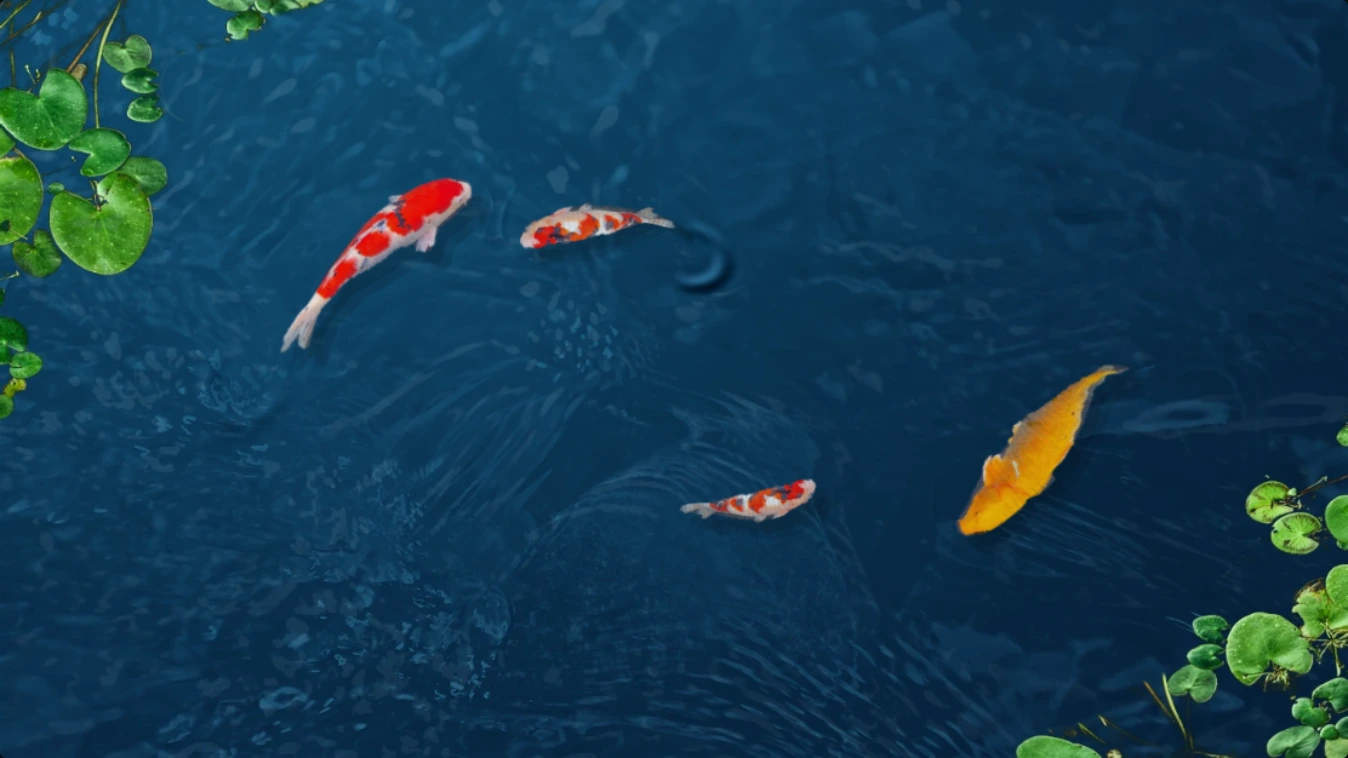
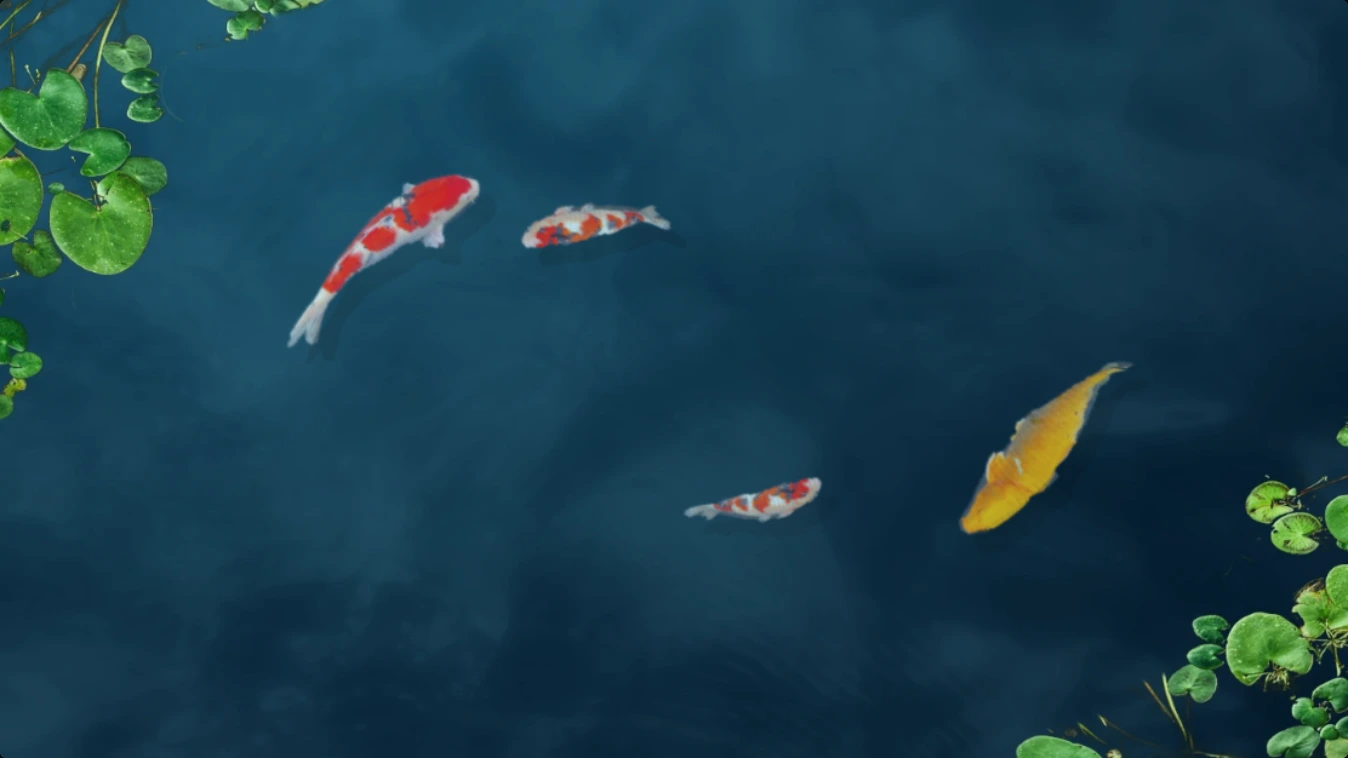
Displace a shared pond surface with each swimming koi

diff --git a/src/components/professional/artwork-water.ts b/src/components/professional/artwork-water.ts
@@ -20,82 +20,32 @@ varying vec2 uv;
 uniform sampler2D floorPhoto;
 uniform sampler2D koiLayer;
 uniform sampler2D surfacePhoto;
-uniform vec4 noses[4];
-uniform vec4 wakes[8];
-uniform float wakeAges[8];
+uniform sampler2D normals;
 
 void main() {
-  // Zero displacement is the resting surface. Only the koi contribute flow.
-  vec2 p = uv * vec2(1.77778, 1.);
-  vec2 displacement = vec2(0.);
-  float light = 0.;
-  for (int i = 0; i < 4; ++i) {
-    vec4 nose = noses[i];
-    vec2 offset = p - nose.xy;
-    float extent = length(offset);
-    if (extent > .116) continue;
-    vec2 along = vec2(cos(nose.z), sin(nose.z));
-    float ahead = dot(offset, along);
-    float side = dot(offset, vec2(-along.y, along.x));
-    // A short bow wave falls away on either side as the fish displaces water.
-    float front = ahead - .020 + side * side * 9.;
-    float arc = exp(-abs(front) * 204. - (side * side) * 450.);
-    float sway = arc * nose.w * smoothstep(-.047, -.012, ahead)
-      * (1. - smoothstep(.073, .116, extent));
-    vec2 normal = normalize(along + vec2(-along.y, along.x) * (18. * side));
-    float slope = sway * sin(front * 295.);
-    displacement += normal * slope * vec2(.006, .011);
-    light += slope * dot(normal, vec2(-.56, -.83)) * .26;
-  }
-  for (int i = 0; i < 8; ++i) {
-    vec4 wake = wakes[i];
-    float age = wakeAges[i];
-    if (age > 1.28 || abs(wake.w) < .025) continue;
-    vec2 along = vec2(cos(wake.z), sin(wake.z));
-    vec2 across = vec2(-along.y, along.x);
-    vec2 center = wake.xy - along * age * .027
-      + across * sign(wake.w) * (.011 + age * .025);
-    vec2 offset = p - center;
-    float spread = .024 + age * .043;
-    if (max(abs(offset.x), abs(offset.y)) > spread * 2.2) continue;
-    vec2 field = vec2(dot(offset, along) * .76, dot(offset, across));
-    float radius = length(field) / spread;
-    float fade = smoothstep(0., .11, age) * (1. - smoothstep(.26, 1.28, age))
-      * (1. - smoothstep(1.38, 1.66, radius));
-    float curl = fade * wake.w * exp(-radius * radius * 1.25);
-    displacement += vec2(-offset.y, offset.x) / spread * curl * vec2(.020, .028);
-    // A spreading crest tips the local surface toward the sky on one flank
-    // and away on the other. Both refraction and glints use that same slope.
-    vec2 normal = (.76 * field.x * along + field.y * across) / max(length(field), .0001);
-    float front = radius - .94;
-    float lee = smoothstep(-.65, .62, dot(offset, -along) / spread);
-    float slope = sin(front * 8.) * exp(-front * front * 8.)
-      * fade * abs(wake.w) * lee;
-    displacement += normal * slope * vec2(.006, .011);
-    light += slope * dot(normal, vec2(-.56, -.83)) * .32;
-  }
-  // Light bends farther on its way to the stone bed than to the shallower koi.
-  vec2 floorUV = clamp(uv + displacement * 1.68, .001, .999);
-  vec2 fishUV = clamp(uv + displacement * .80, .001, .999);
-  vec3 bed = texture2D(floorPhoto, floorUV).rgb;
-  vec4 fish = texture2D(koiLayer, fishUV);
-  float shadow = texture2D(koiLayer, floorUV - vec2(.007, .015)).a
-    + texture2D(koiLayer, floorUV - vec2(.013, .023)).a;
-  bed *= 1. - .12 * shadow;
-  // This premultiplied layer has its own transmission and water tint.
-  vec3 color = bed * (1. - fish.a) + fish.rgb * vec3(.94, .95, .96);
-  float daylight = exp(-dot((uv - vec2(.20, -.09)) / vec2(.61, .89),
-    (uv - vec2(.20, -.09)) / vec2(.61, .89)));
-  color *= 1. + light * 1.18;
-  color += mix(vec3(.18, .32, .43), vec3(.44, .63, .74), daylight) * light;
+  vec2 slope = (texture2D(normals, uv).rg * 255. - 128.) / 128.;
+  vec2 bend = slope * vec2(.019, .034);
+  vec3 bed = texture2D(floorPhoto, uv + bend * 1.45).rgb;
+  // Low-frequency surface relief also refracts a fish as it crosses still water.
+  float relief = texture2D(surfacePhoto, uv).r - .5;
+  vec2 throughWater = uv + bend + relief * vec2(.0022, -.0034);
+  vec2 blur = vec2(.00085, .0015);
+  vec4 fish = .52 * texture2D(koiLayer, throughWater)
+    + .16 * texture2D(koiLayer, throughWater + blur)
+    + .16 * texture2D(koiLayer, throughWater - vec2(blur.x, 0.))
+    + .16 * texture2D(koiLayer, throughWater - vec2(0., blur.y));
+  float shadow = texture2D(koiLayer, uv - vec2(.012,.024)).a;
+  bed *= 1. - .14 * shadow;
 
-  // The photographed reflection stays in place in calm water. The same wake
-  // that distorts the pond bed also bends this reflection over the koi.
-  vec2 reflected = clamp(uv * .82 + .09 + displacement * 3.8, .001, .999);
-  float flecks = texture2D(surfacePhoto, reflected).r;
-  float reflection = smoothstep(.025, .45, flecks);
-  float silver = reflection * (.044 + .095 * daylight + light * 1.8) + max(light, 0.) * .52;
-  color = mix(color, vec3(.71, .86, .94), clamp(silver, 0., .48));
+  // Blue-green scattered light softens the submerged outlines. Surface
+  // reflections cross the markings, with highlights tilted by the local wake.
+  vec3 submerged = fish.rgb * vec3(.82, .88, .88) + vec3(.021, .067, .088) * fish.a;
+  vec3 color = bed * (1. - fish.a) + submerged;
+  float sky = texture2D(surfacePhoto, uv + bend * 3.8).r;
+  float facing = dot(slope, vec2(-.54, -.84));
+  float reflection = clamp(.024 + .115 * sky + facing * .20, .008, .29);
+  color *= 1. + .13 * facing + (sky - .5) * .055;
+  color = mix(color, vec3(.57, .73, .80), reflection);
   gl_FragColor = vec4(color, 1.);
 }
 `;
@@ -115,6 +65,7 @@ export function createArtworkSurface(
   const fishTexture = gl.createTexture();
   const bedTexture = gl.createTexture();
   const surfaceTexture = gl.createTexture();
+  const normalTexture = gl.createTexture();
 
   function dispose() {
     for (const shader of shaders) gl.deleteShader(shader);
@@ -123,6 +74,7 @@ export function createArtworkSurface(
     gl.deleteTexture(fishTexture);
     gl.deleteTexture(bedTexture);
     gl.deleteTexture(surfaceTexture);
+    gl.deleteTexture(normalTexture);
   }
 
   function attach(type: number, source: string) {
@@ -136,7 +88,7 @@ export function createArtworkSurface(
     return true;
   }
 
-  if (!program || !buffer || !fishTexture || !bedTexture || !surfaceTexture || !attach(gl.VERTEX_SHADER, vertex) || !attach(gl.FRAGMENT_SHADER, fragment)) {
+  if (!program || !buffer || !fishTexture || !bedTexture || !surfaceTexture || !normalTexture || !attach(gl.VERTEX_SHADER, vertex) || !attach(gl.FRAGMENT_SHADER, fragment)) {
     dispose();
     return null;
   }
@@ -163,6 +115,7 @@ export function createArtworkSurface(
     gl.texImage2D(gl.TEXTURE_2D, 0, gl.RGBA, gl.RGBA, gl.UNSIGNED_BYTE, image);
   }
 
+  bindImage(gl.TEXTURE3, normalTexture, new ImageData(1, 1));
   bindImage(gl.TEXTURE1, bedTexture, bedImage);
   bindImage(gl.TEXTURE2, surfaceTexture, surfaceImage);
   gl.pixelStorei(gl.UNPACK_PREMULTIPLY_ALPHA_WEBGL, true);
@@ -170,17 +123,21 @@ export function createArtworkSurface(
   gl.uniform1i(gl.getUniformLocation(program, "koiLayer"), 0);
   gl.uniform1i(gl.getUniformLocation(program, "floorPhoto"), 1);
   gl.uniform1i(gl.getUniformLocation(program, "surfacePhoto"), 2);
-  const bowPoints = gl.getUniformLocation(program, "noses[0]");
-  const wakePoints = gl.getUniformLocation(program, "wakes[0]");
-  const ages = gl.getUniformLocation(program, "wakeAges[0]");
+  gl.uniform1i(gl.getUniformLocation(program, "normals"), 3);
+  let allocated = false;
 
   return {
     draw(flow: ReturnType<typeof createPondSwim>) {
       gl.viewport(0, 0, canvas.width, canvas.height);
       gl.texSubImage2D(gl.TEXTURE_2D, 0, 0, 0, gl.RGBA, gl.UNSIGNED_BYTE, fish);
-      gl.uniform4fv(bowPoints, flow.noses);
-      gl.uniform4fv(wakePoints, flow.wakes);
-      gl.uniform1fv(ages, flow.wakeAges);
+      gl.activeTexture(gl.TEXTURE3);
+      if (allocated) {
+        gl.texSubImage2D(gl.TEXTURE_2D, 0, 0, 0, gl.RGBA, gl.UNSIGNED_BYTE, flow.normals);
+      } else {
+        gl.texImage2D(gl.TEXTURE_2D, 0, gl.RGBA, gl.RGBA, gl.UNSIGNED_BYTE, flow.normals);
+        allocated = true;
+      }
+      gl.activeTexture(gl.TEXTURE0);
       gl.drawArrays(gl.TRIANGLE_STRIP, 0, 4);
     },
     dispose,

diff --git a/src/components/professional/artwork-pond.ts b/src/components/professional/artwork-pond.ts
@@ -1,4 +1,5 @@
-const height = 562.5;
+import { createPondRipples } from "./artwork-ripples";
+
 const tau = Math.PI * 2;
 type Point = readonly [number, number];
 
@@ -67,10 +68,13 @@ type Koi = (typeof koi)[number];
 
 function poseAt(fish: Koi, time: number) {
   const cadence = time / fish.cycle * tau + fish.phase * tau;
-  const surge = Math.sin(cadence) * fish.cycle / tau * .24;
+  const phase = (time * fish.frequency + fish.phase) * tau;
+  // Each half stroke adds a short surge within the longer burst-and-coast cycle.
+  const surge = Math.sin(cadence - .45) * fish.cycle / tau * .40
+    + .14 * Math.sin(2 * phase - 1.1) / (2 * tau * fish.frequency);
   const effort = Math.max(0, (Math.cos(cadence) + .28) / 1.28);
   const distance = fish.track.length * fish.start + fish.speed * (time + surge);
-  return { distance, phase: (time * fish.frequency + fish.phase) * tau, effort };
+  return { distance, phase, effort };
 }
 
 // Advance the head along the route. Integrate backwards in fixed-length links:
@@ -87,46 +91,35 @@ function bodyAt(fish: Koi, time: number) {
     const angle = fish.track.headingAt(noseDistance - u * fish.size);
     const turn = Math.atan2(Math.sin(angle - headAngle), Math.cos(angle - headAngle));
     const flex = Math.max(0, (u - .19) / .81);
-    const stroke = Math.sin(pose.phase - flex * 5.1) * flex ** 1.8 * (.09 + .64 * pose.effort);
+    const stroke = Math.sin(pose.phase - flex * 5.1) * flex ** 1.8 * (.25 + .59 * pose.effort);
     const tangent = headAngle + 1.12 * Math.tanh(turn / 1.12) * Math.min(1, u * 2.4) + stroke;
     const [x, y] = joints[i];
     joints.push([x - length * Math.cos(tangent), y - length * Math.sin(tangent)]);
   }
-  return { joints, headAngle, effort: pose.effort };
+  return { joints, phase: pose.phase, effort: pose.effort };
 }
 
 export function createPondSwim() {
-  const noses = new Float32Array(16);
-  const wakes = new Float32Array(32);
-  const wakeAges = new Float32Array(8);
-
-  const lastBeats = koi.map(() => NaN);
+  const ripples = createPondRipples();
+  const previous = koi.map(fish => bodyAt(fish, 0).joints);
+  function disturb(time: number, dt: number) {
+    for (const [i, fish] of koi.entries()) {
+      const { joints } = bodyAt(fish, time);
+      // The shoulder parts water, the flank carries it, and the narrow tail
+      // sweeps it sideways. Use actual joint velocities, including in turns.
+      for (const [joint, radius] of [[4, .080], [15, .068], [27, .047], [32, .033]]) {
+        const [x, y] = joints[joint];
+        const [px, py] = previous[i][joint];
+        ripples.push(x, y, (x - px) / dt, (y - py) / dt, fish.size * radius);
+      }
+      previous[i] = joints;
+    }
+  }
 
   function draw(ctx: CanvasRenderingContext2D, images: HTMLImageElement[], time: number) {
-    for (const [i, fish] of koi.entries()) {
-      const { joints, headAngle, effort } = bodyAt(fish, time);
-      const [noseX, noseY] = joints[0];
-      noses.set([noseX / height, noseY / height, headAngle, fish.opacity * (.40 + effort * .47)], i * 4);
-
-      // The tail lags the trunk wave. Release each vortex near the end of
-      // its lateral sweep, at the position occupied on that stroke.
-      const releasePhase = .84;
-      const lastBeat = Math.floor((time * fish.frequency + fish.phase - releasePhase) * 2);
-      for (let j = 0; j < 2; j++) {
-        const beat = lastBeat - j;
-        const released = (beat * .5 + releasePhase - fish.phase) / fish.frequency;
-        const index = i * 2 + j;
-        wakeAges[index] = time - released;
-        if (lastBeats[i] === lastBeat) continue;
-        const stroke = bodyAt(fish, released);
-        const [x, y] = stroke.joints[links];
-        const [stemX, stemY] = stroke.joints[links - 3];
-        const heading = Math.atan2(stemY - y, stemX - x);
-        const direction = beat % 2 ? 1 : -1;
-        wakes.set([x / height, y / height, heading, direction * stroke.effort * fish.opacity], index * 4);
-      }
-      lastBeats[i] = lastBeat;
-
+    ripples.advance(time, disturb);
+    for (const fish of koi) {
+      const { joints, phase, effort } = bodyAt(fish, time);
       const sprite = images[fish.asset];
       const thickness = fish.size * sprite.height / sprite.width;
       const slices = links;
@@ -141,8 +134,26 @@ export function createPondSwim() {
         const y = (end[1] - start[1]) / slice;
         ctx.save();
         ctx.transform(x, y, -y, x, start[0], start[1]);
-        ctx.drawImage(sprite, j * sourceSlice, 0, sourceSlice, sprite.height,
-          0, -.5 * thickness, slice + .6, thickness);
+        const u = (j + .5) / slices;
+        const fin = Math.exp(-(((u - .72) / .087) ** 2));
+        if (fin > .02) {
+          // The pectoral tips fan outward from a fixed root beside the gills.
+          // Move only the outer rows so the trunk keeps its width.
+          ctx.drawImage(sprite, j * sourceSlice, sprite.height * .21, sourceSlice, sprite.height * .58,
+            0, -thickness * .29, slice + .6, thickness * .58);
+          for (const side of [-1, 1]) {
+            const beat = Math.sin(phase + side * .56);
+            ctx.save();
+            ctx.translate(0, side * thickness * .29);
+            ctx.transform(1, 0, side * fin * (.28 + .48 * beat), 1 + fin * (.18 + .23 * beat) * (.7 + .3 * effort), 0, 0);
+            ctx.drawImage(sprite, j * sourceSlice, side < 0 ? 0 : sprite.height * .79, sourceSlice, sprite.height * .21,
+              0, side < 0 ? -thickness * .21 : 0, slice + .6, thickness * .21);
+            ctx.restore();
+          }
+        } else {
+          ctx.drawImage(sprite, j * sourceSlice, 0, sourceSlice, sprite.height,
+            0, -.5 * thickness, slice + .6, thickness);
+        }
         ctx.restore();
         start = end;
       }
@@ -150,30 +161,5 @@ export function createPondSwim() {
     }
   }
 
-  function drawFallbackWake(ctx: CanvasRenderingContext2D) {
-    ctx.save();
-    ctx.strokeStyle = "#82b9b0";
-    ctx.lineWidth = .9;
-    for (let i = 0; i < wakeAges.length; i++) {
-      const age = wakeAges[i];
-      const index = i * 4;
-      const strength = wakes[index + 3];
-      const alpha = Math.min(age * 7, 1) * Math.max(0, 1 - age) * Math.abs(strength) * .24;
-      if (alpha < .01) continue;
-      const side = Math.sign(strength);
-      const heading = wakes[index + 2];
-      const spread = 8 + age * 20;
-      ctx.globalAlpha = alpha;
-      ctx.beginPath();
-      ctx.ellipse(
-        wakes[index] * height - Math.sin(heading) * spread * side,
-        wakes[index + 1] * height + Math.cos(heading) * spread * side,
-        spread, spread * .56, heading, Math.PI * .59, Math.PI * 1.49,
-      );
-      ctx.stroke();
-    }
-    ctx.restore();
-  }
-
-  return { draw, drawFallbackWake, noses, wakes, wakeAges };
+  return { draw, normals: ripples.normals };
 }

diff --git a/src/components/professional/artwork-ripples.ts b/src/components/professional/artwork-ripples.ts
@@ -1,0 +1,45 @@
+// Height and vertical velocity on a shallow-water grid in pond coordinates.
+export function createPondRipples() {
+  const width = 224, height = 126;
+  const level = new Float32Array(width * height);
+  const velocity = new Float32Array(level.length);
+  const normals = new ImageData(width, height);
+  const pixels = normals.data;
+  const scale = width / 1000;
+  let clock = 0;
+
+  function push(x: number, y: number, vx: number, vy: number, radius: number) {
+    const cx = x * scale, cy = y * scale, r = radius * scale;
+    const reach = 2.7 * r;
+    for (let j = Math.max(1, Math.floor(cy - reach)); j <= Math.min(height - 2, cy + reach); j++) {
+      for (let i = Math.max(1, Math.floor(cx - reach)); i <= Math.min(width - 2, cx + reach); i++) {
+        const dx = (i - cx) / r, dy = (j - cy) / r;
+        // Water rises on the leading side of a moving patch and falls behind it.
+        velocity[j * width + i] += (dx * vx + dy * vy) * .00036 * Math.exp(-dx * dx - dy * dy);
+      }
+    }
+  }
+
+  function advance(time: number, disturb: (t: number, dt: number) => void) {
+    const dt = 1 / 60;
+    while (clock + dt <= time) {
+      clock += dt;
+      disturb(clock, dt);
+      for (let j = 1; j < height - 1; j++) {
+        const end = (j + 1) * width - 1;
+        for (let i = j * width + 1; i < end; i++) {
+          const curvature = level[i-1] + level[i+1] + level[i-width] + level[i+width] - 4 * level[i];
+          velocity[i] = .926 * velocity[i] + .105 * curvature - .0024 * level[i];
+        }
+      }
+      for (let i = 0; i < level.length; i++) level[i] += velocity[i];
+    }
+    for (let i = 0; i < level.length; i++) {
+      const inner = i >= width && i < level.length - width;
+      pixels[i*4] = 128 + (inner ? (level[i+1] - level[i-1]) * 150 : 0);
+      pixels[i*4+1] = 128 + (inner ? (level[i+width] - level[i-width]) * 150 : 0);
+      pixels[i*4+3] = 255;
+    }
+  }
+  return { push, advance, normals };
+}

diff --git a/src/components/professional/scenic-artwork.tsx b/src/components/professional/scenic-artwork.tsx
@@ -57,8 +57,22 @@ export function ScenicArtwork({ id, active }: { id: ScenicId; active: boolean })
         if (surface) brush.clearRect(0, 0, width, height);
         else brush.drawImage(plate, 0, 0, width, height);
         swim.draw(brush, life, elapsed);
-        if (!surface) swim.drawFallbackWake(brush);
-        surface?.draw(swim);
+
+        if (surface) surface.draw(swim);
+        else if (underwater) {
+          // Shade the same simulated surface on devices without WebGL.
+          const image = swim.normals;
+          const pixels = image.data;
+          for (let i = 0; i < pixels.length; i += 4) {
+            const slope = (128 - pixels[i]) * .54 + (128 - pixels[i + 1]) * .84;
+            pixels[i] = 109;
+            pixels[i + 1] = 177;
+            pixels[i + 2] = 202;
+            pixels[i + 3] = 12 + slope * .45;
+          }
+          underwater.putImageData(image, 0, 0);
+          brush.drawImage(underwater.canvas, 0, 0, image.width, image.height, 0, 0, width, height);
+        }
       }
       if (id === "plateau" && plate) {
         context.drawImage(plate, 0, 0, width, height);
